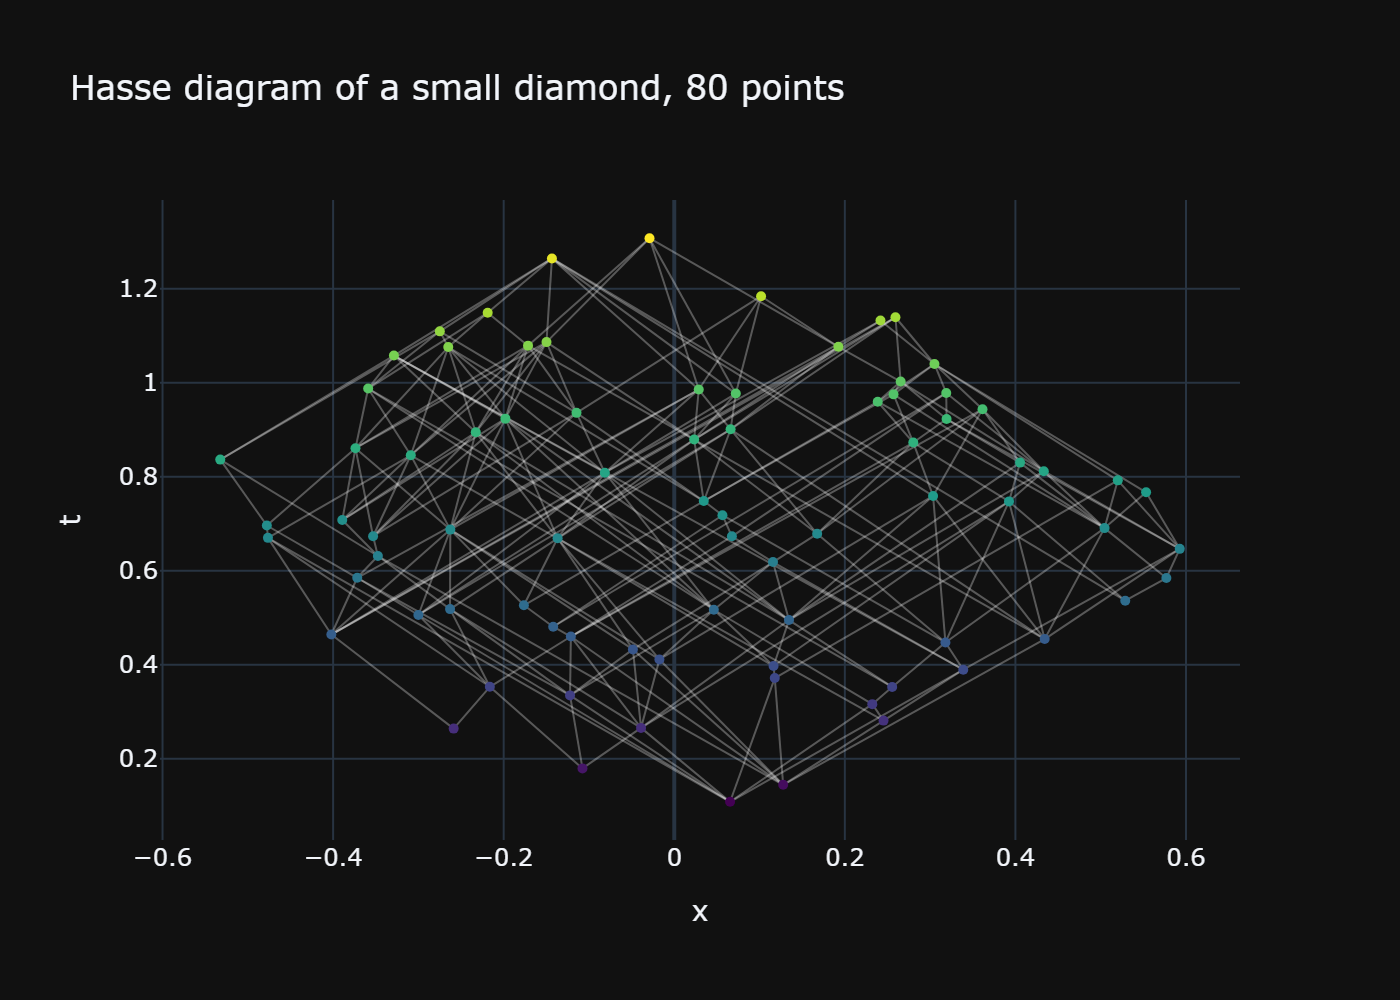
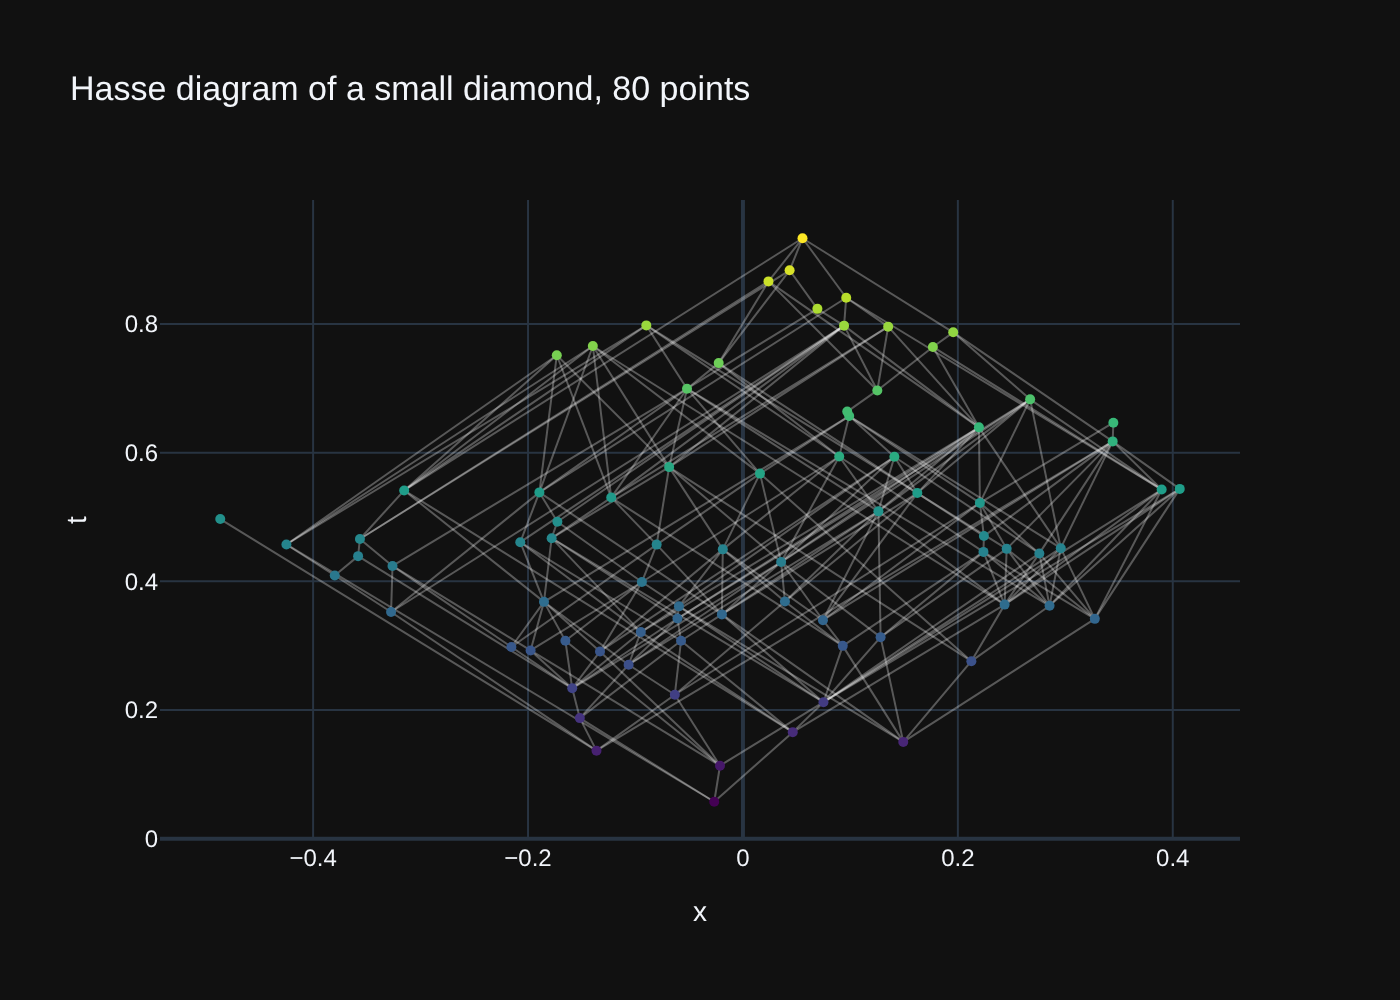
Gallery script that runs: tools/make_gallery.py (review 3.12 C-5)
Regenerates the four images the guides use through the public API (the 4D image had no
generator); the R1 script, which used a parked spacetime, and the unreferenced cylinder
image are deleted.

Claude-Session: https://claude.ai/code/session_016UrAt3kyUAA7CXuBEhhXZA

diff --git a/tools/make_gallery.py b/tools/make_gallery.py
@@ -1,0 +1,49 @@
+"""Regenerate the plot images the guides show (documentation/docs/assets/gallery/).
+
+    python tools/make_gallery.py        # needs plotly and kaleido (kaleido needs a Chrome)
+
+Public API only: when this script stops running, the images in the guides are out of date.
+Analyzing a Causal Set.md and Visualization.md use the four images written here.
+"""
+
+from __future__ import annotations
+
+import warnings
+from pathlib import Path
+
+import pycauset as pc
+
+OUT = Path(__file__).resolve().parents[1] / "documentation" / "docs" / "assets" / "gallery"
+
+
+def main() -> None:
+    OUT.mkdir(parents=True, exist_ok=True)
+    diamond2 = pc.spacetime.MinkowskiDiamond(2)
+
+    # Visualization.md: a 2D diamond, 3000 points.
+    c = pc.causet(n=3000, spacetime=diamond2, seed=42)
+    pc.plot_embedding(c, title="Minkowski diamond, 3000 points").write_image(OUT / "diamond_embedding.png", scale=2)
+
+    # Visualization.md: a 4D diamond shows its first three axes (and warns that it does).
+    c4 = pc.causet(n=2000, spacetime=pc.spacetime.MinkowskiDiamond(4), seed=3)
+    with warnings.catch_warnings():
+        warnings.simplefilter("ignore", pc.PyCausetWarning)  # "rendering the first 3 axes"
+        fig = pc.plot_embedding(c4, title="4D diamond, 2000 points (first three axes)")
+    fig.write_image(OUT / "diamond_4d_embedding.png", scale=2)
+
+    # Visualization.md: the Hasse diagram (links) of a small diamond.
+    c_small = pc.causet(n=80, spacetime=diamond2, seed=7)
+    pc.plot_hasse(c_small, title="Hasse diagram of a small diamond, 80 points").write_image(
+        OUT / "diamond_hasse.png", scale=2)
+
+    # Analyzing a Causal Set.md, Visualization.md: the causal matrix as a heatmap.
+    c_heat = pc.causet(n=120, spacetime=diamond2, seed=7)
+    fig = pc.plot_causal_matrix(c_heat, title="Causal matrix of a 120-point diamond")
+    fig.update_layout(width=720, height=720)
+    fig.write_image(OUT / "causal_matrix.png", scale=2)
+
+    print("wrote:", sorted(p.name for p in OUT.glob("*.png")))
+
+
+if __name__ == "__main__":
+    main()

diff --git a/review/areas/3.12-3.15-vis-benchmarks.md b/review/areas/3.12-3.15-vis-benchmarks.md
@@ -364,8 +364,9 @@ opens a browser.** [citation; renderer logic read in plotly 7.1.0 `io/_renderers
 - C-3: rendering everything passes `force=True`; the guard raises ValueError (not UserWarning).
 - C-4: the subsampled Hasse warning and title say "sub-order".
 - C-5: plot_hasse.md, plot_embedding.md, CausalSet.md and the Visualization guide describe the
-  signatures, the sub-order, the coordinates rule and the errors. The gallery script is still
-  open.
+  signatures, the sub-order, the coordinates rule and the errors. `tools/make_gallery.py`
+  regenerates the four images the guides use (the 4D one had no generator) through the public
+  API; the R1 script that could not run and the unreferenced cylinder image are deleted.
 - C-6: the title has the real dimension; every subsampled title says so; warnings are attributed
   to the user's line (`_warn` walks to the first frame outside the package); a malformed
   boundary path raises.

diff --git a/review/RESTRUCTURE.md b/review/RESTRUCTURE.md
@@ -32,7 +32,7 @@ Ground rules (from the maintainer, 2026-11-24):
 | now | proposal |
 |---|---|
 | `mockups/spacetime_studio_mockup.html` | delete (an idea, not code; note it on the roadmap if wanted) |
-| `scripts/make_r1_gallery.py` | move to `tools/make_gallery.py` |
+| `scripts/make_r1_gallery.py` | moved: `tools/make_gallery.py` (review 3.12 C-5) |
 | `tools/` (mix of ps1 build scripts, audits, diagnostics) | keep `tools/`, split into `tools/dev/` (audits, checks) and `tools/release/`; delete one-off diagnostics (`macos_hang_diagnose.py`) once its bug is closed |
 | `demos/` | keep (user-facing), and run it in CI as a smoke test |
 | `benchmarks/` (11 scripts, overlapping; 3 kept after review 3.15) | consolidate into one harness plus scenarios; delete `benchmark_numpy_parity.py`, `benchmark_io_smoke.py`, `bench_coverage.py` if superseded (verify first) |

diff --git a/review/INVENTORY.md b/review/INVENTORY.md
@@ -33,7 +33,7 @@ moves, keeping the Review/Notes columns. Snapshot: commit `046c5ab`, 2026-11-24.
 | `benchmarks/` | 3 benchmark scripts (after review 3.15); `parity.py` is the CI one | consolidate |
 | `demos/` | 7 short conference demos + README | live, not run in CI |
 | `tools/` | audits (`audit_public_surface`, `check_native_exports`, `check_support_matrix`), PowerShell build/release/CUDA install, one-off diagnostics | mixed |
-| `scripts/make_r1_gallery.py` | regenerates README gallery images | move to tools |
+| `scripts/make_r1_gallery.py` | regenerates README gallery images | now `tools/make_gallery.py` |
 | `mockups/` | one HTML mockup ("Spacetime Studio") | delete |
 | `documentation/` | MkDocs site source (see below) | ~20 broken snippets (F-008) |
 | `overrides/` | MkDocs theme overrides | live |

diff --git a/tools/README.md b/tools/README.md
@@ -2,4 +2,5 @@
 
 `build.ps1`: a thin wrapper around the pip build for Windows (`documentation/internals/Build System.md`).
 `release.ps1`: creates and pushes the next version tag (`documentation/project/protocols/Release Process.md`).
+`make_gallery.py`: regenerates the plot images the guides show (`documentation/docs/assets/gallery/`; needs plotly and kaleido).
 Checks that used to live here are tests now (`tests/engine/test_api_surface.py`).
